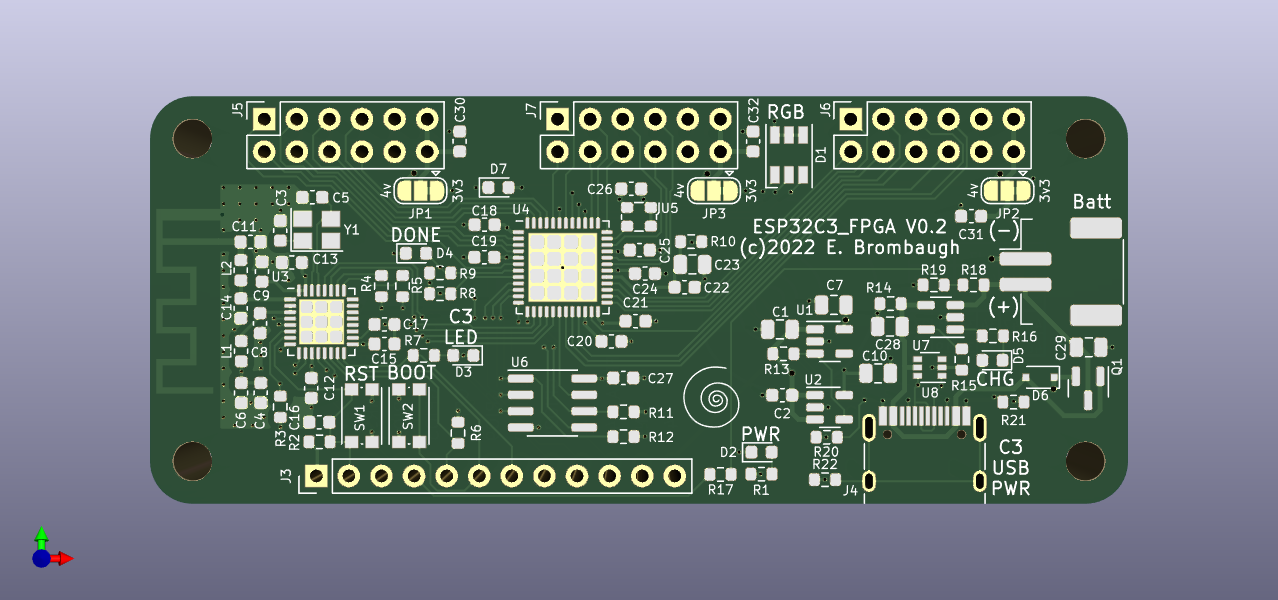
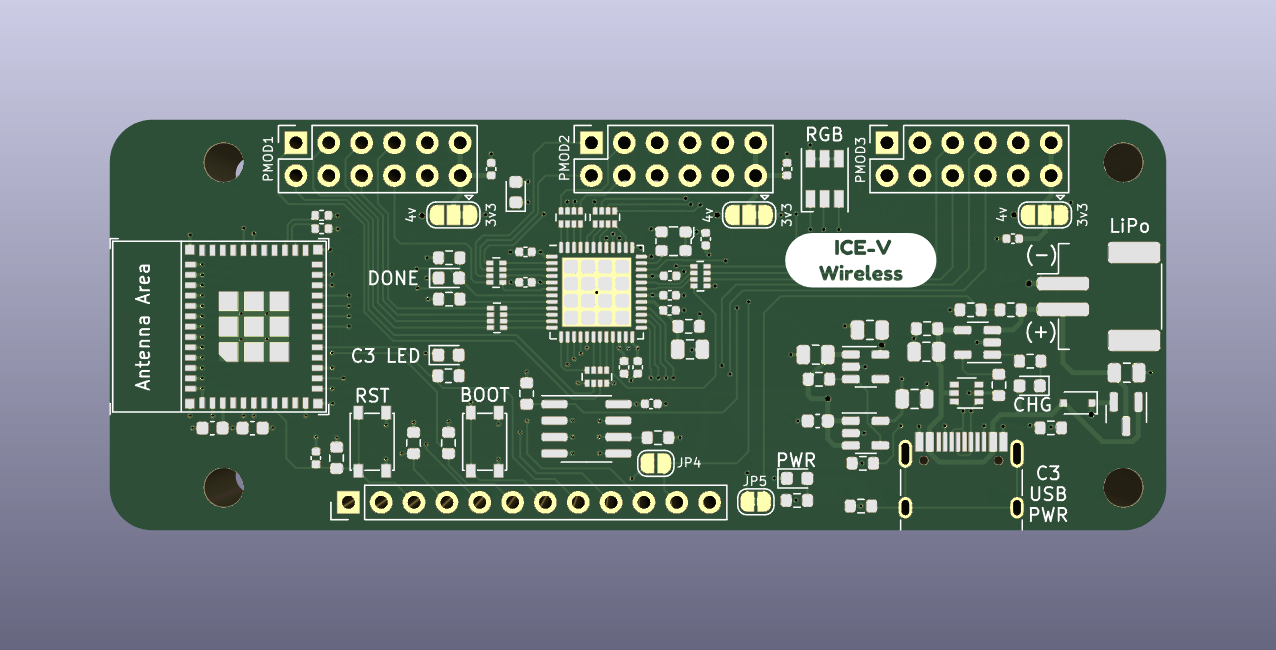
Update docs for ICE-V branding

Changed region(s): [[0.0611, 0.15, 0.9169, 0.84], [0.0306, 0.87, 0.0611, 0.96]]

diff --git a/README.md b/README.md
@@ -1,11 +1,11 @@
-# ESP32C3_FPGA
+# ICE-V Wirelss
 Combined ESP32C3 and iCE40 FPGA board
 
 <img src="docs/3D_front.png" width="640" />
 <img src="docs/3D_back.png" width="640" />
 
 ## Abstract
-This project combines an Espressif ESP32C3HN4 SoC (which includes 4MB of
+This project combines an Espressif ESP32-C3-MINI-1 (which includes 4MB of
 flash in the package) with a Lattice iCE40 FPGA (either an iCE5LP4k or
 iCE40UP5k or other pin an package-compatible devices) to allow WiFi and
 Bluetooth control of the FPGA. ESP32 and FPGA I/O is mostly uncommitted
@@ -47,24 +47,3 @@ possible.
 A command-line Python script is provided to communicate over TCP sockets
 with the ESP32C3 which supports the features outlined in the Firmware section
 above.
-
-## Status
-### 05-17-2022
-PCBs from the first revision are back from the board house and I've built one
-up. A few minor issues were discovered that had easy work-arounds, as well as
-a bug in the firmware configuration process. All essential parts
-of the project are tested out and working now and I've got the changes for a
-second revision ready to roll.
-
-<img src="docs/rev0.1_photo.jpeg" width="640" />
-
-### 05-24-2022
-We're looking at a "community-base" upgrade to the project now. Lots of changes:
-* Switching to a C3 Mini module that's pre-certified and less cost & hassle than the discrete
-approach of this design.
-* Revising the PMOD pinouts to support higher-performance.
-* Adding source termination to all PMOD I/O to reduce EMI.
-* More tweaks TBD.
-
-Find it here:
-https://github.com/mwelling/ICE-V-Wireless
